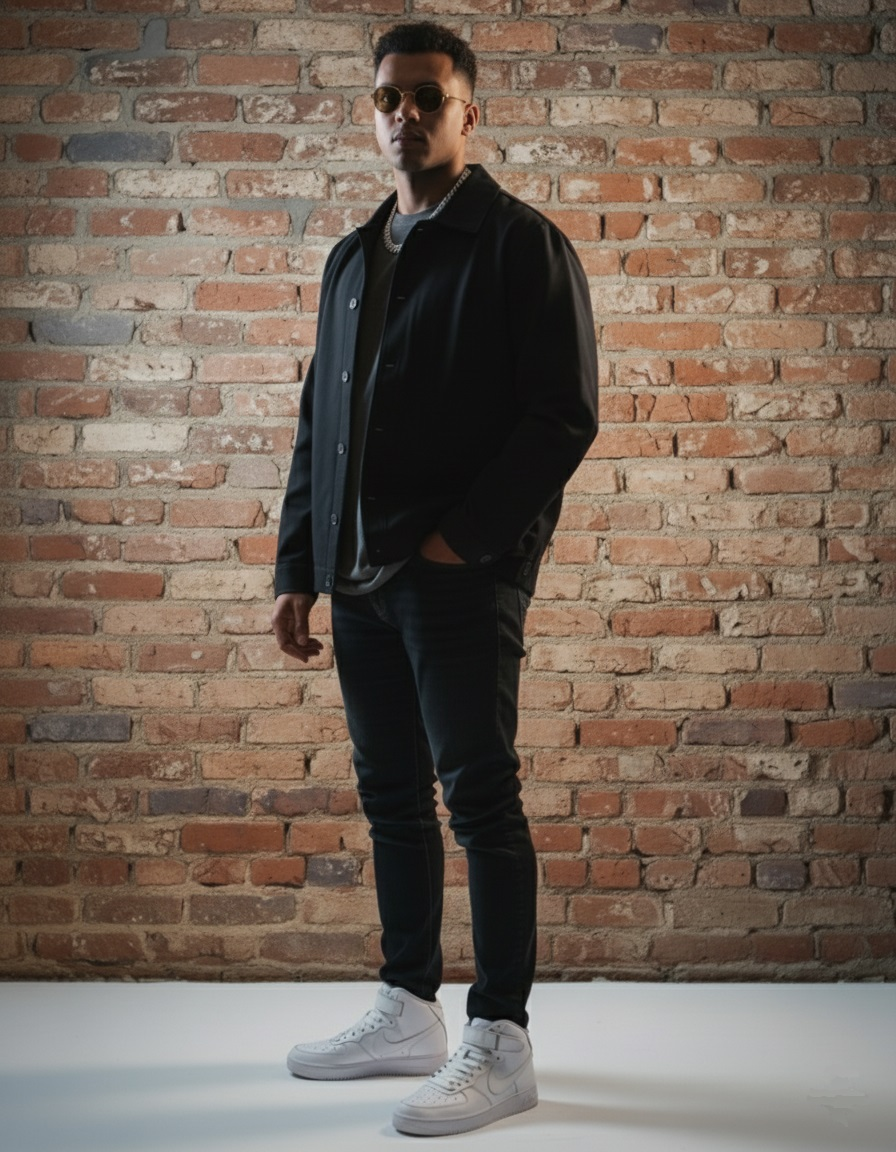
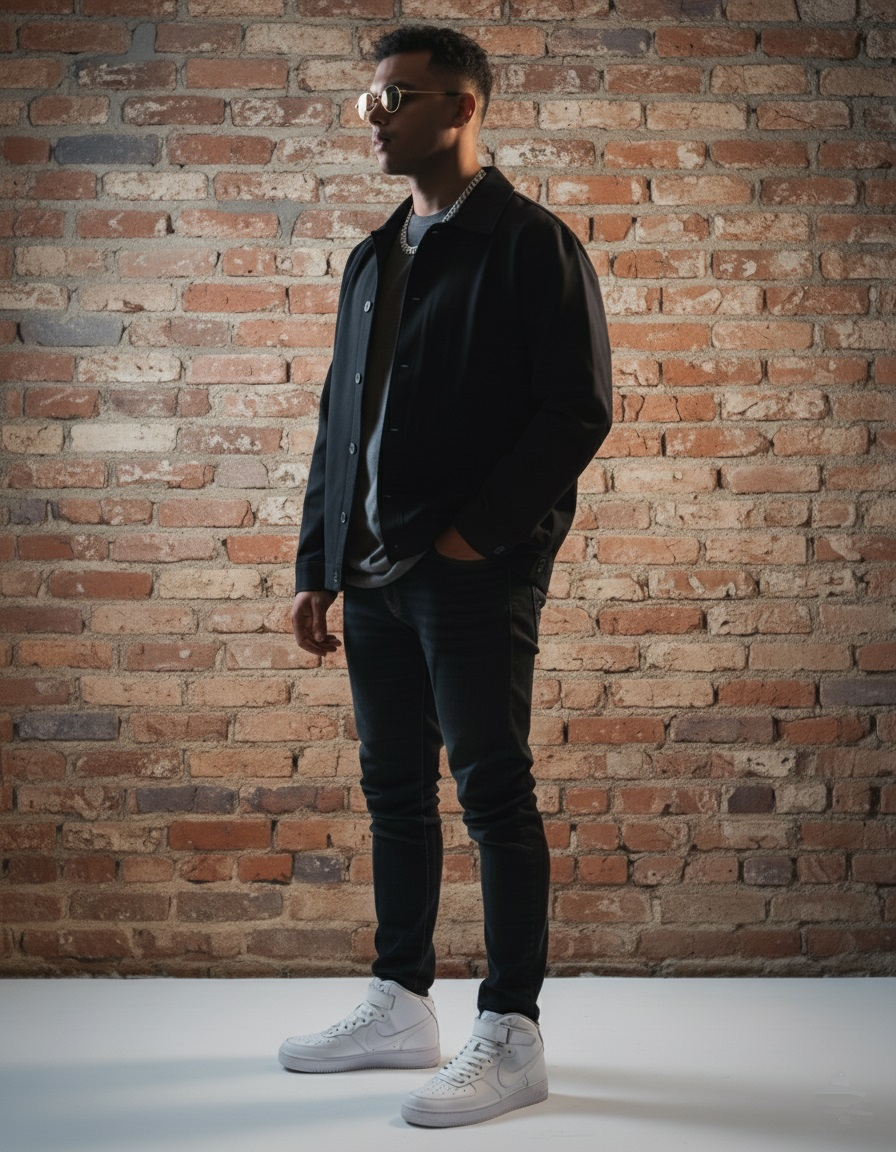
nostuden

Changed region(s): [[0.0, 0.0, 1.0, 1.0], [0.4688, 0.4688, 0.5312, 0.5], [0.5, 0.25, 0.5312, 0.2812]]

diff --git a/index.html b/index.html
@@ -144,7 +144,7 @@
             </div>
             
             <p data-aos="fade-up" data-aos-delay="600">
-              Estudiante de Ingeniería de Software y especialista en IA con más de 3 años de experiencia 
+              Ingeniero de Software y especialista en IA con más de 3 años de experiencia 
               desarrollando soluciones tecnológicas innovadoras que impactan positivamente a las comunidades.
             </p>
             
@@ -217,7 +217,7 @@
               
               <div class="about-description">
                 <p>
-                  Soy estudiante de ingeniería de software en mi décimo semestre en la Universidad de Cartagena, y como becario internacional, 
+                  Soy Ingeniero de software en la Universidad de Cartagena, y como becario internacional, 
                   he trabajado en proyectos tecnológicos que realmente impactan a las comunidades. Me apasiona liderar, comunicar ideas claras 
                   y explorar soluciones innovadoras.
                 </p>
